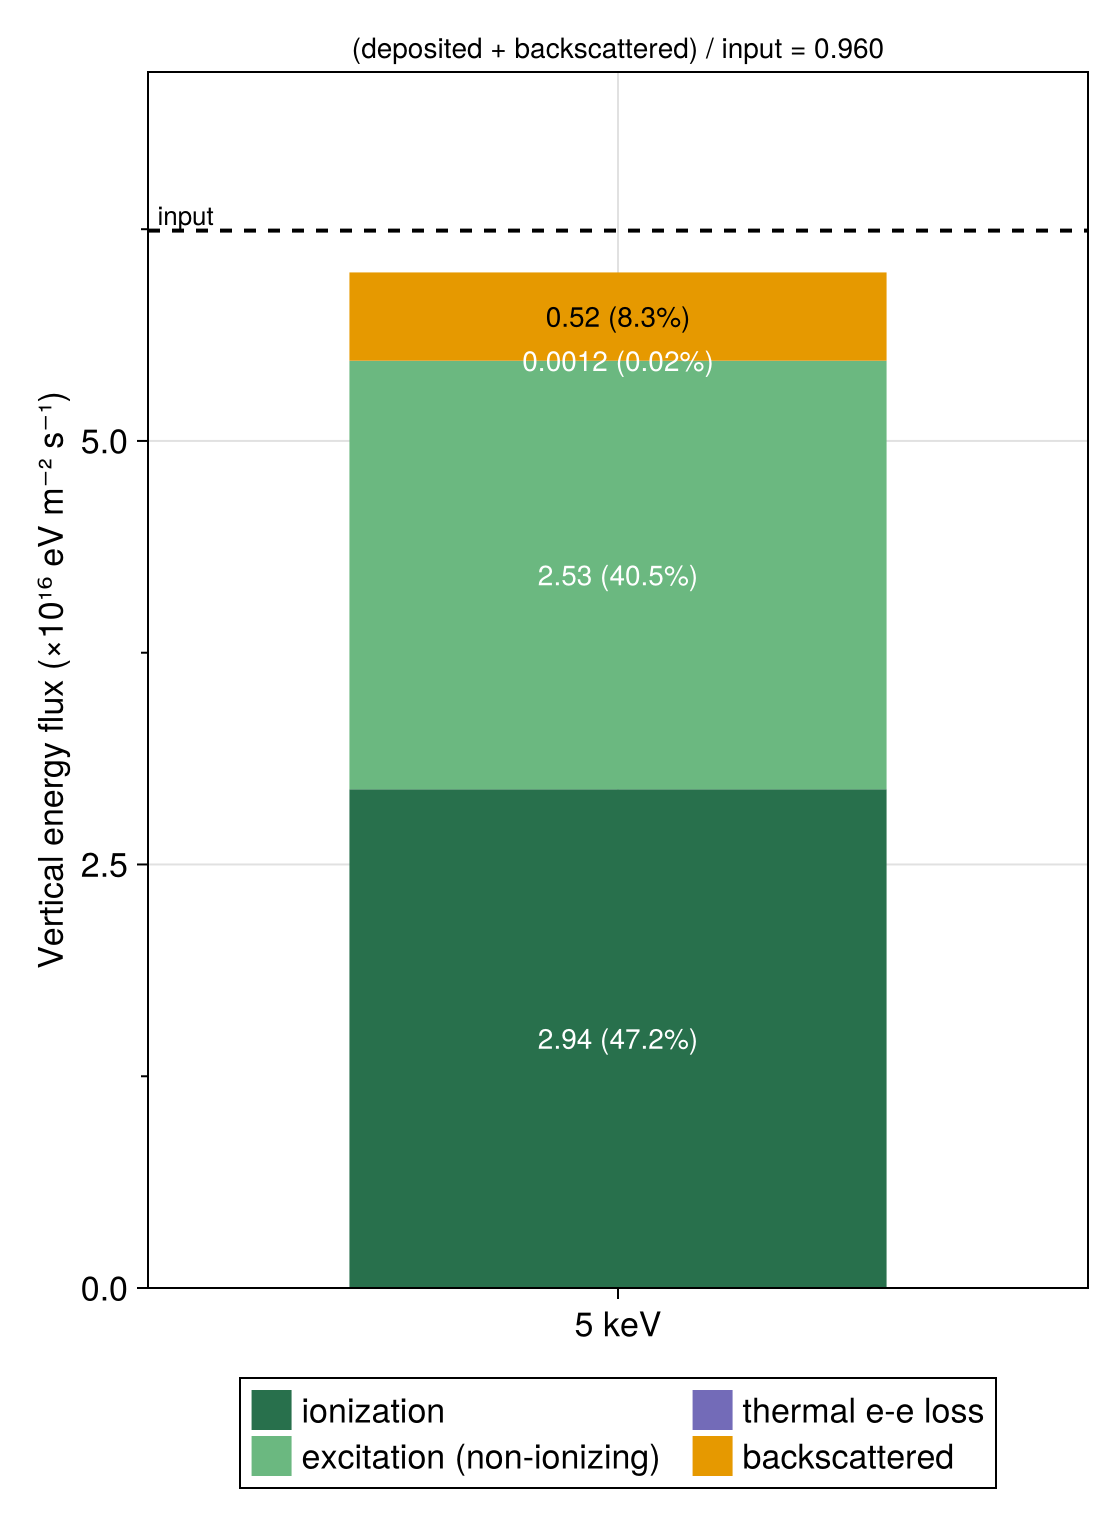
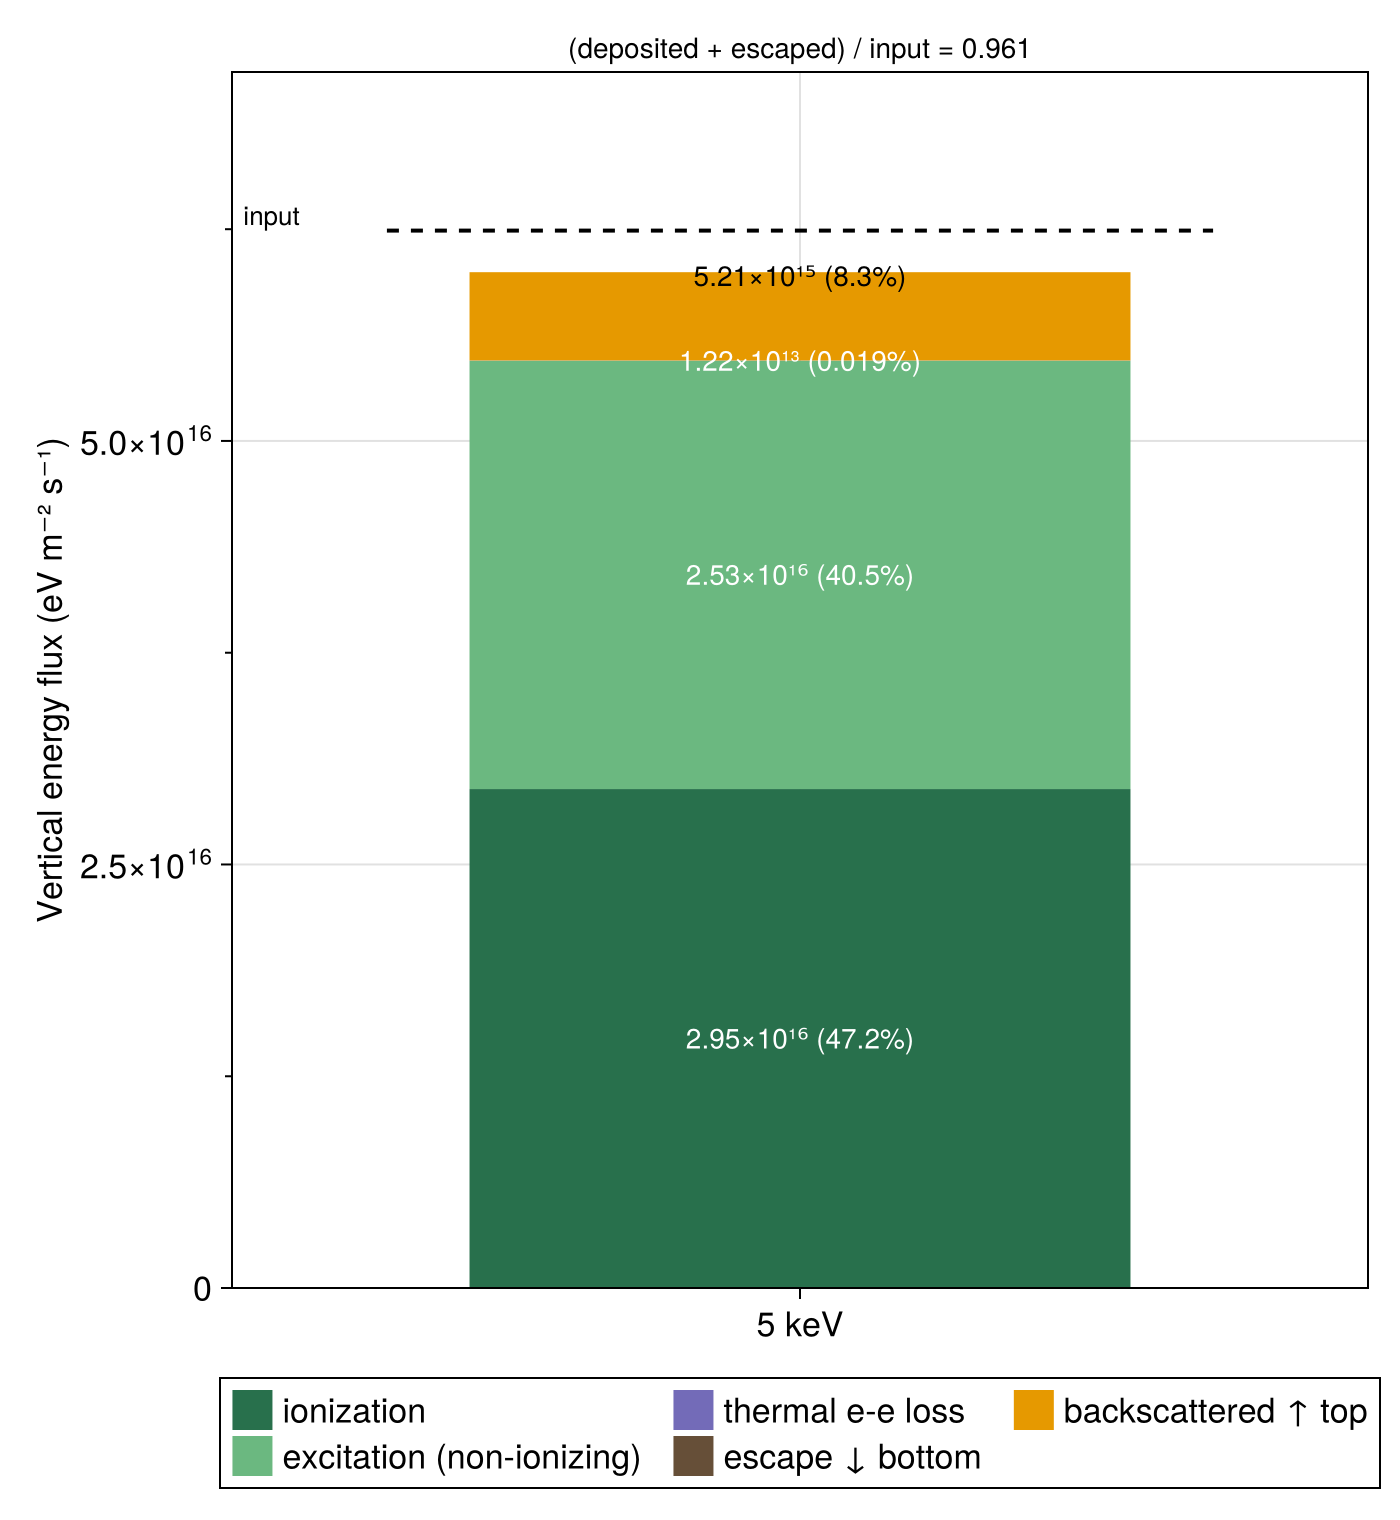
Plot the energy budget in raw units, with a bar per run
The bar chart drops the power-of-ten rescaling: values are plotted as
they are and Makie formats the axis, while each segment label carries
its own value in scientific notation with the share of the input beside
it. A label is skipped where a term is exactly zero.

The stack gains the floor-escape segment, in brown between the thermal
loss and the backscatter, so a run that loses energy through the bottom
of the grid shows it.

plot_energy_budget also takes a vector of budgets and draws one bar per
budget on a shared axis, each with its own dashed input line spanning
its bar, which replaces the tick-merging the mutating form used to do.
The mutating form now draws one bar and its input line, and leaves the
axis to the caller.

A percentage far below the 0.1% cutoff is formatted rather than rounded,
since rounding 5.8e-27 to two significant digits leaves a float that
prints as 5.799999999999999e-27.

diff --git a/CHANGELOG.md b/CHANGELOG.md
@@ -5,7 +5,7 @@
   - Works on an in-memory `sim` or on a saved run directory. `tidx` picks one time slice (the default is the last), and `trange` integrates the balance over a range of slices, which is what closes for a transient run.
   - `make_energy_budget_file` writes the result to `analysis/energy_budget.toml`, and `load_energy_budget` reads it back.
   - `load_model` reloads the `AuroraModel` saved in `inputs/physics_state.jld2`.
-  - With a Makie backend loaded, `plot_energy_budget` draws the balance as a stacked bar against the input flux; `plot_energy_budget!` puts several runs side by side on one axis.
+  - With a Makie backend loaded, `plot_energy_budget` draws the balance as a stacked bar against the input flux, taking either one budget or a vector of them to compare runs side by side; `plot_energy_budget!` draws a single bar into an axis of your own.
 - **Breaking** `AuroraModel` takes the neutral atmosphere and electron background as data instead of MSIS/IRI file paths [#166](https://github.com/egavazzi/AURORA.jl/pull/166)
   - New types `NeutralAtmosphere` (one `DensityProfile` per species, indexed as `neutrals[:N2]`), `DensityProfile` and `ElectronProfile`. They hold the data itself, so a model saved to `physics_state.jld2` reloads without the original files, and carry a free-form `origin` string written into `inputs/atmosphere.nc`. File paths are still accepted, and read at construction.
   - New functions `run_msis`, `read_msis_file`, `read_ccmc_msis` (returning a `NeutralAtmosphere`) and `run_iri`, `read_iri_file`, `read_ccmc_iri` (returning an `ElectronProfile`).

diff --git a/docs/src/50-output-and-data.md b/docs/src/50-output-and-data.md
@@ -187,6 +187,10 @@ of the input:
 ```julia
 using CairoMakie
 fig = plot_energy_budget(budget; label = "5 keV")
+
+# Several runs side by side, one bar each
+fig = plot_energy_budget([load_energy_budget(dir) for dir in run_dirs];
+                         labels = ["2 keV", "5 keV", "10 keV"])
 ```
 
 ![Stacked energy budget of a 5 keV run](assets/energy_budget_5keV.png)
